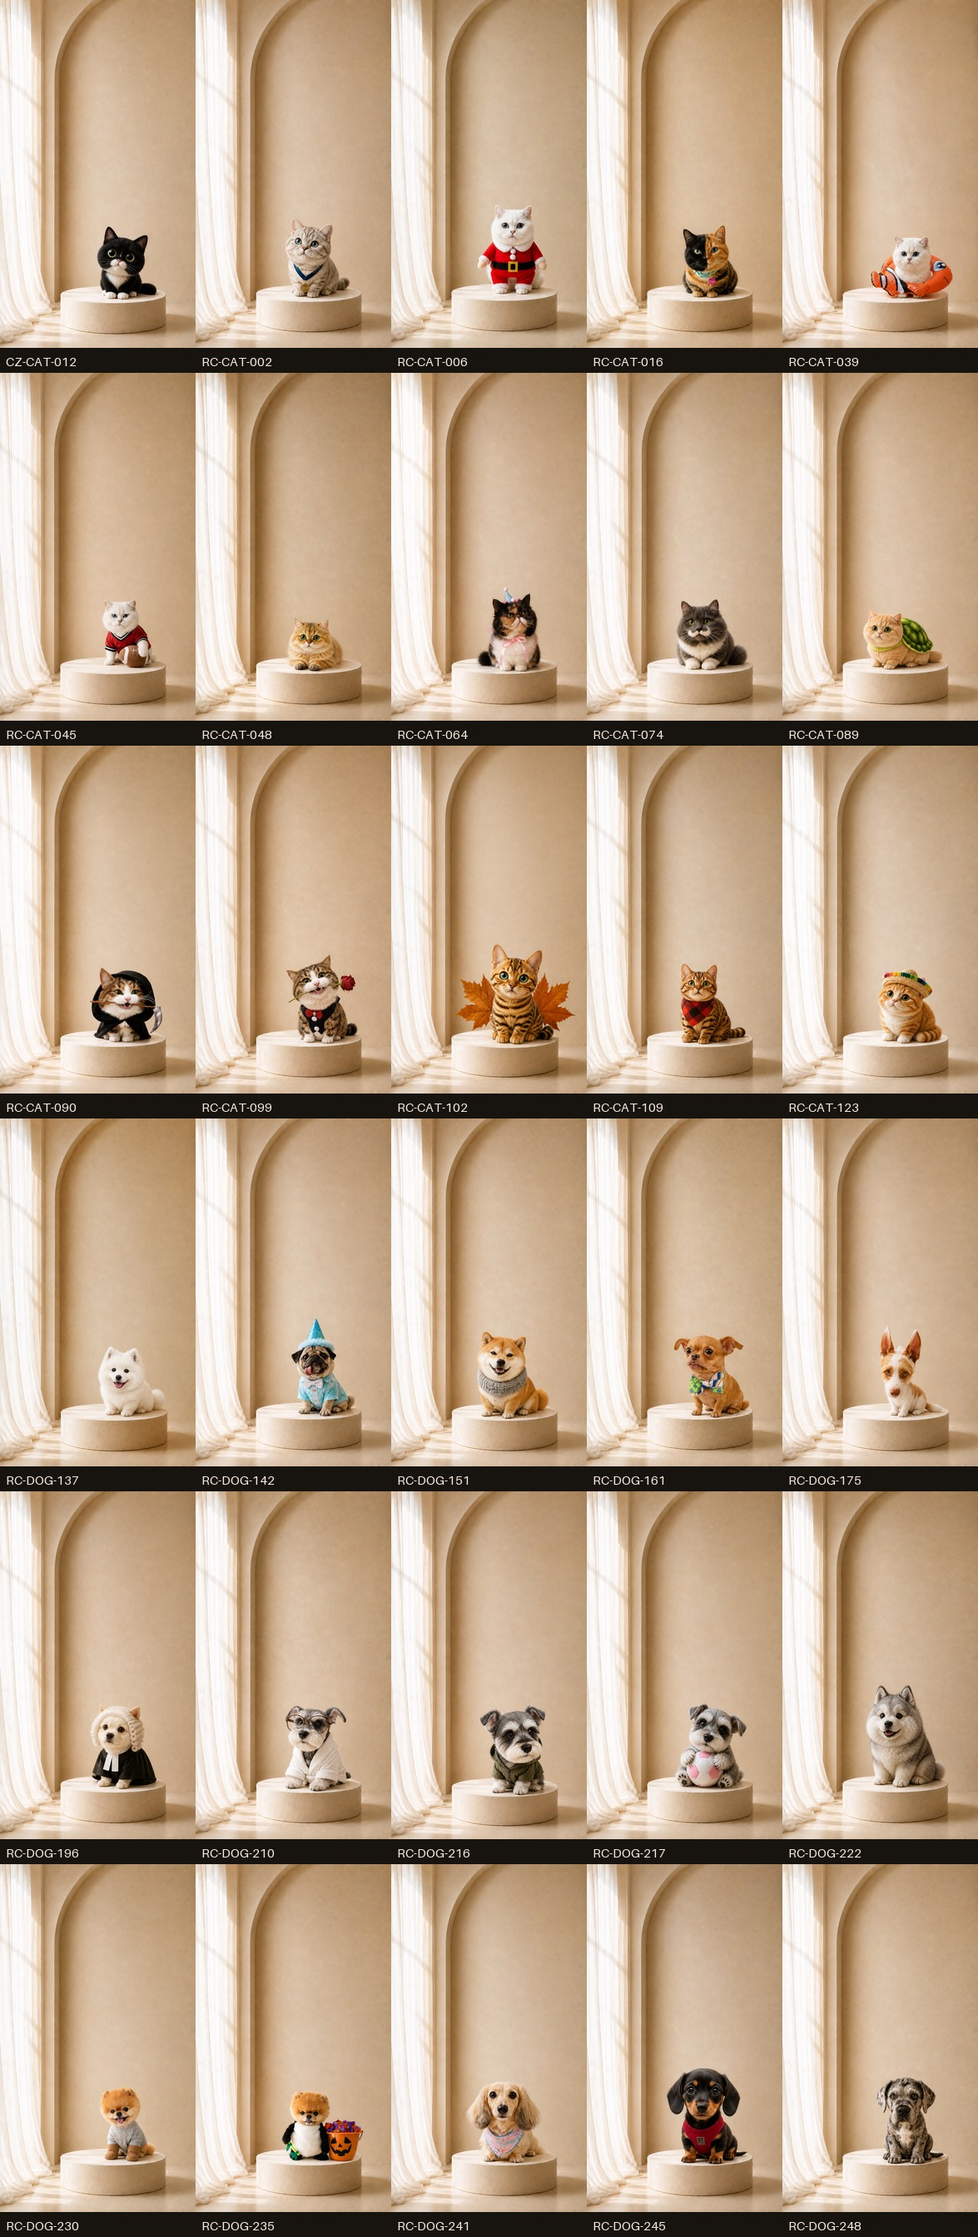
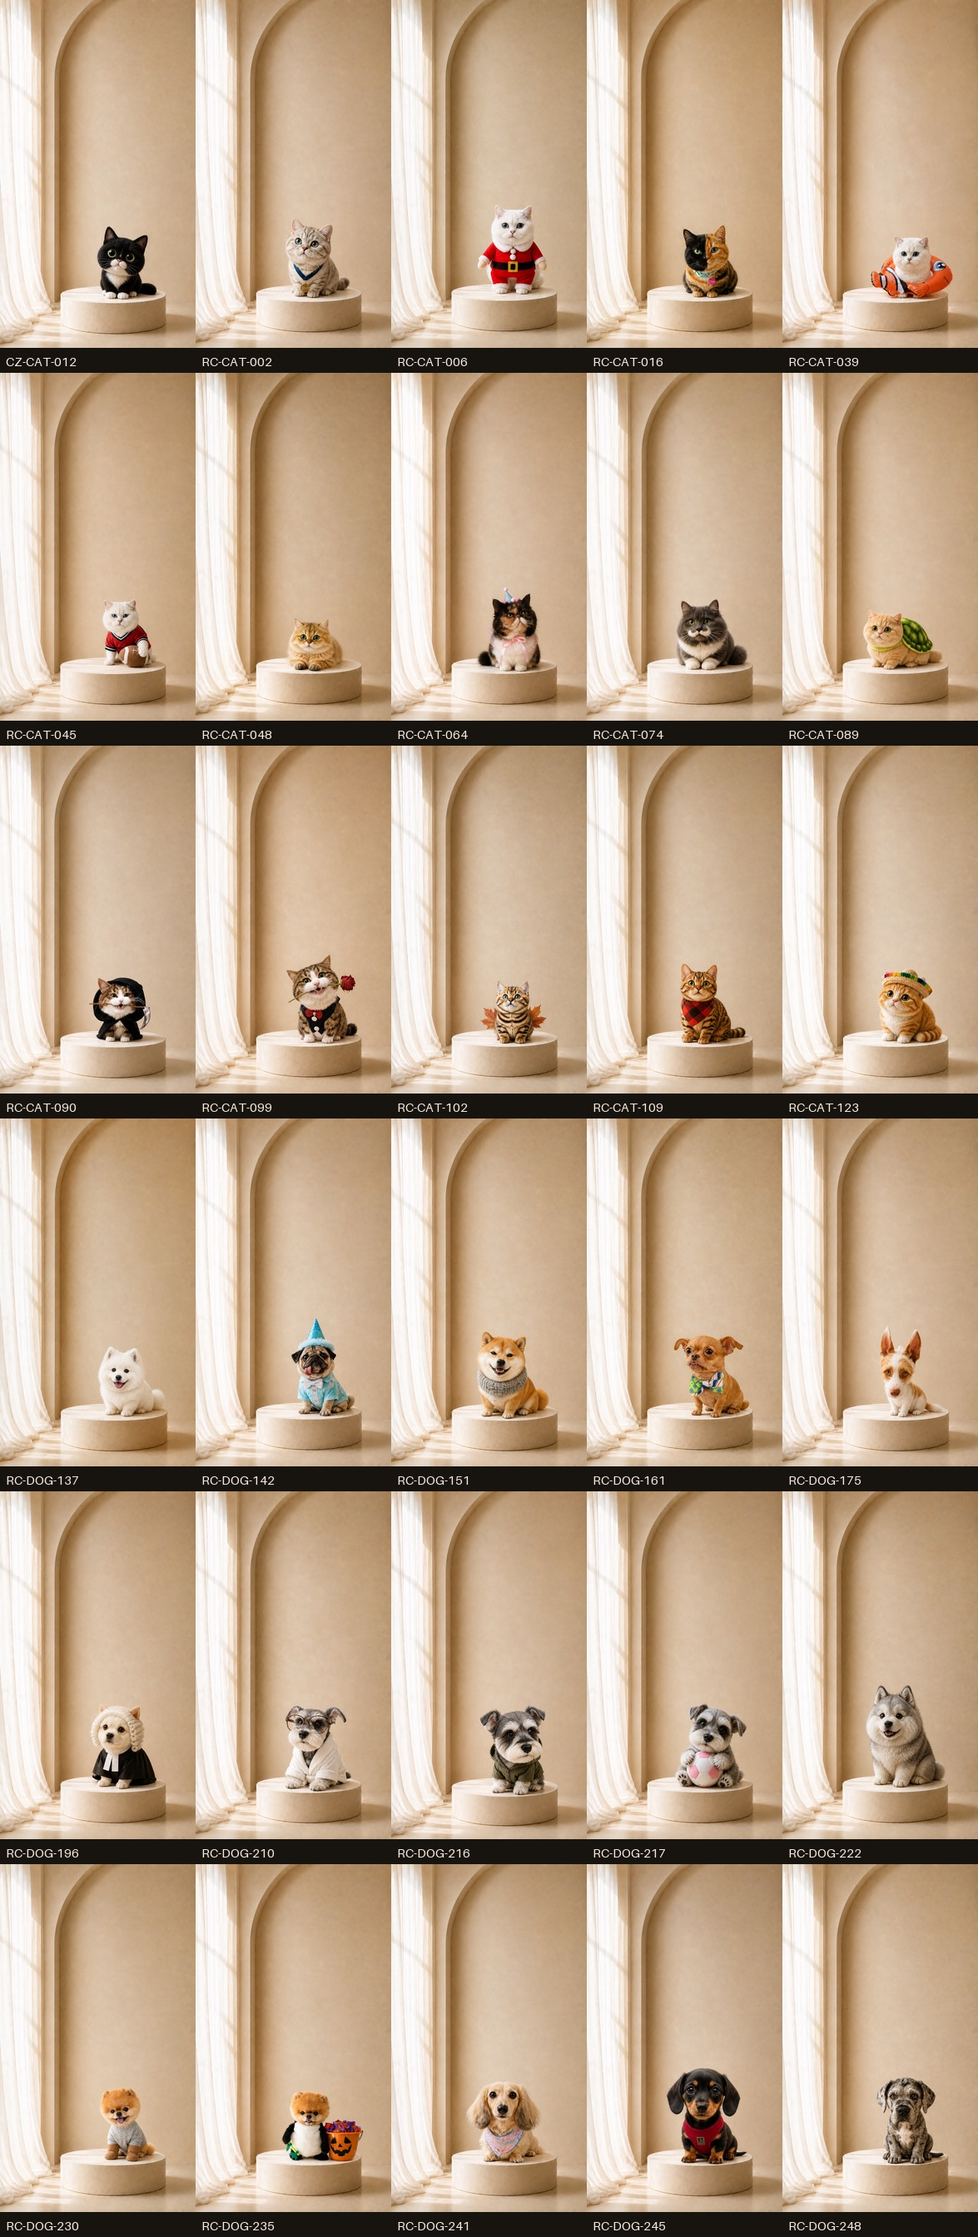
pet-r008: promote disjoint 30-pet gallery

Changed region(s): [[0.4596, 0.4062, 0.5821, 0.4688], [0.0919, 0.4375, 0.1838, 0.4688]]

diff --git a/pet-identity-30/index.html b/pet-identity-30/index.html
@@ -4,7 +4,7 @@
   <meta charset="utf-8">
   <meta name="viewport" content="width=device-width, initial-scale=1">
   <meta name="theme-color" content="#17130f">
-  <title>PET-R007 · 커튼 동선 비중첩 고양이 15 + 강아지 15</title>
+  <title>PET-R008 · 이전 세트와 ID가 겹치지 않는 고양이 15 + 강아지 15</title>
   <style>
     :root {
       color-scheme: dark;
@@ -183,9 +183,9 @@
 </head>
 <body>
   <header class="wrap">
-    <p class="eyebrow">PET-R007 · 2026-08-25</p>
-    <h1>커튼 동선과 겹치지 않는<br>고양이 15 + 강아지 15</h1>
-    <p class="lede">사용자 입력 동물과 필수 액세서리를 오른쪽 안전 박스 안의 치비 캐릭터로 변환하고, 별도 누끼나 크로마키 없이 <code>base_9x16</code> 장면 안에서 한 번에 생성한 30개 결과입니다.</p>
+    <p class="eyebrow">PET-R008 · 2026-08-25</p>
+    <h1>이전 세트와 입력 ID가 겹치지 않는<br>고양이 15 + 강아지 15</h1>
+    <p class="lede">PET-R007의 입력 ID와 파일 해시를 제외 목록으로 고정한 뒤, 서로 다른 원본 사진 30개를 치비 캐릭터로 변환했습니다. 별도 누끼나 크로마키 없이 <code>base_9x16</code> 장면 안에서 한 번에 생성한 결과입니다.</p>
     <div class="notice">자동 PASS 없음 · 전 항목 owner review required</div>
 
     <div class="stats" aria-label="실험 요약">
@@ -193,7 +193,7 @@
       <div class="stat"><strong>15</strong><span>고양이</span></div>
       <div class="stat"><strong>15</strong><span>강아지</span></div>
       <div class="stat"><strong>941×1672</strong><span>네이티브 출력</span></div>
-      <div class="stat"><strong>0</strong><span>크로마·사후 합성</span></div>
+      <div class="stat"><strong>0</strong><span>이전 입력 ID 교집합</span></div>
     </div>
 
     <details class="method">
@@ -206,7 +206,7 @@
             <li>Images 3–4: 치비 스타일·최대 크기만 안내</li>
             <li>Image 5: 빨강 금지 구역·초록 배치 박스 좌표 지도</li>
           </ol>
-          <p>동물·모자·옷·장난감·꼬리·그림자까지 오른쪽 배치 박스에 넣어 커튼 최대 동선과 분리했습니다. 결과 이미지는 941×1672 네이티브 비율 그대로이며 가로·세로 독립 리사이즈를 하지 않았습니다.</p>
+          <p>동물·모자·옷·장난감·꼬리·그림자까지 오른쪽 배치 박스에 넣고 전체 장면 depth로 커튼 앞뒤를 처리했습니다. 결과 이미지는 941×1672 네이티브 비율 그대로입니다. 원본 풀은 같은 인플루언서의 여러 게시물을 포함하므로, ID와 원본 사진은 이전 세트와 완전히 다르지만 같은 실제 반려동물의 다른 사진이 포함될 수 있습니다.</p>
         </div>
         <div class="refs">
           <figure class="ref"><img src="assets/reference/base.jpg" alt="빈 base 9x16 장면"><figcaption>Image 1 · edit target</figcaption></figure>
@@ -216,7 +216,7 @@
       </div>
     </details>
 
-    <a class="sheet-link" href="assets/contact-sheet.jpg?v=pet-r007-curtain-clear-pets-1" target="_blank" rel="noopener">30개 전체 결과 콘택트시트 ↗</a>
+    <a class="sheet-link" href="assets/contact-sheet.jpg?v=pet-r008-disjoint-pets-1" target="_blank" rel="noopener">30개 전체 결과 콘택트시트 ↗</a>
     <a class="sheet-link" href="preview/surface-contact-sheet.jpg" target="_blank" rel="noopener">30개 Depth · Normal QA 시트 ↗</a>
   </header>
 
@@ -233,7 +233,7 @@
   </main>
 
   <footer>
-    <div class="wrap">PET-R007 · Built-in ImageGen direct-base edit · 공개 결과는 품질 판정이 아니라 오너 검수용 후보입니다.</div>
+    <div class="wrap">PET-R008 · Built-in ImageGen direct-base edit · PET-R007 ID 교집합 0 · 공개 결과는 오너 검수용 후보입니다.</div>
   </footer>
 
   <dialog id="lightbox">
@@ -283,37 +283,37 @@
 
   <script>
     const pets = [
-      {id:'CZ-CAT-006', species:'cat', trait:'검정·흰색 턱시도, 넓은 황록색 눈, 흰 턱·가슴·발', required:'추가 액세서리 없음'},
-      {id:'RC-CAT-001', species:'cat', trait:'둥근 은갈색 태비 얼굴, 연녹색 눈, 이마 M 무늬', required:'회색 니트 상어 후드·이빨·지느러미'},
-      {id:'RC-CAT-003', species:'cat', trait:'은색 셰이디드, 둥근 얼굴, 연녹색 눈, 보라색 목줄', required:'얕은 베이지색 직조 바구니'},
-      {id:'RC-CAT-005', species:'cat', trait:'순백색 털, 파란 회색 눈, 작은 분홍 코', required:'청록 목줄과 라벤더 꽃 모양 태그'},
-      {id:'RC-CAT-018', species:'cat', trait:'좌측 검정·우측 주황 얼굴, 녹색·파란색 오드아이', required:'분홍 목줄과 하트 태그'},
-      {id:'RC-CAT-028', species:'cat', trait:'접힌 귀, 회색·주황·크림색 얼굴 패치, 녹색 눈', required:'몸과 머리를 감싼 회색 저지 원단'},
-      {id:'RC-CAT-036', species:'cat', trait:'순백색 털, 사파이어색 눈, 둥근 얼굴', required:'검정·흰색 깅엄 체크 셔츠'},
-      {id:'RC-CAT-049', species:'cat', trait:'긴 황금색 털, 청록색 눈, 크림색 가슴 갈기', required:'추가 액세서리 없음'},
-      {id:'RC-CAT-065', species:'cat', trait:'납작하고 작은 칼리코 얼굴, 검정·주황·흰색 패치', required:'추가 액세서리 없음'},
-      {id:'RC-CAT-066', species:'cat', trait:'회색·흰색 털과 코 아래의 고유한 흰 콧수염 무늬', required:'추가 액세서리 없음'},
-      {id:'RC-CAT-081', species:'cat', trait:'무거운 크림·주황 태비 체형과 가늘게 뜬 눈', required:'추가 액세서리 없음'},
-      {id:'RC-CAT-092', species:'cat', trait:'갈색·흰색 태비, 초록 눈, 송곳니가 보이는 웃음', required:'추가 액세서리 없음'},
-      {id:'RC-CAT-105', species:'cat', trait:'갈색 벵갈 로제트, 큰 귀, 청록색 눈', required:'빨강·검정 버팔로 체크 하네스'},
-      {id:'RC-CAT-117', species:'cat', trait:'주황·흰색 태비, 가는 초록 눈, 흰 앞발', required:'교차한 긴 앞발 포즈'},
-      {id:'RC-CAT-126', species:'cat', trait:'주황색 털, 큰 녹금색 눈, 넓은 주둥이와 젖은 털', required:'얼굴과 이마의 물방울 유지'},
+      {id:'CZ-CAT-012', species:'cat', trait:'검정·흰색 턱시도, 넓은 황록색 눈, 흰 턱·가슴·발', required:'추가 액세서리 없음'},
+      {id:'RC-CAT-002', species:'cat', trait:'둥근 은베이지 태비, 연녹색 눈, 이마 M 무늬', required:'파란 수상 리본과 둥근 금메달'},
+      {id:'RC-CAT-006', species:'cat', trait:'순백색 둥근 얼굴, 짙은 청회색 눈과 분홍 코', required:'흰 트림·검정 벨트가 있는 빨간 산타 인형옷'},
+      {id:'RC-CAT-016', species:'cat', trait:'좌측 검정·우측 주황 반반 얼굴과 녹색·파란색 오드아이', required:'청록 목줄과 분홍 하트 태그'},
+      {id:'RC-CAT-039', species:'cat', trait:'흰색 실버 셰이디드, 연한 파란 눈과 둥근 얼굴', required:'몸을 감싼 주황색 흰동가리 인형 링'},
+      {id:'RC-CAT-045', species:'cat', trait:'순백색 둥근 얼굴, 연한 파란 눈과 새침한 표정', required:'빨간 미식축구 저지와 작은 갈색 공'},
+      {id:'RC-CAT-048', species:'cat', trait:'긴 황금빛 털, 커다란 에메랄드 눈과 짙은 앞발', required:'추가 액세서리 없음'},
+      {id:'RC-CAT-064', species:'cat', trait:'납작한 검정·주황·흰색 칼리코 얼굴과 황록색 눈', required:'하늘색 파티 모자와 분홍 리본'},
+      {id:'RC-CAT-074', species:'cat', trait:'회색·흰색 장모, 초록 눈과 흰 콧수염 무늬', required:'추가 액세서리 없음'},
+      {id:'RC-CAT-089', species:'cat', trait:'크림·주황 태비, 초록 눈과 넓은 볼', required:'등에 밀착된 초록 거북이 등딱지 의상'},
+      {id:'RC-CAT-090', species:'cat', trait:'갈색·흰색 태비, 초록 눈과 송곳니가 보이는 웃음', required:'검정 후드 의상과 짧은 미니 낫'},
+      {id:'RC-CAT-099', species:'cat', trait:'갈색·흰색 태비, 초록 눈과 즐거운 송곳니 표정', required:'검정 턱시도·빨간 나비넥타이·입에 문 장미'},
+      {id:'RC-CAT-102', species:'cat', trait:'따뜻한 갈색 벵갈 로제트, 큰 귀와 청록색 눈', required:'어깨 뒤에 붙은 단풍잎 날개 두 장'},
+      {id:'RC-CAT-109', species:'cat', trait:'따뜻한 갈색 벵갈 로제트, 큰 귀와 선명한 초록 눈', required:'빨강·검정 다이아몬드 무늬 목 스카프'},
+      {id:'RC-CAT-123', species:'cat', trait:'주황·흰색 태비, 초록 눈과 흰 턱·가슴', required:'여러 색 띠가 있는 작은 밀짚 솜브레로'},
 
-      {id:'RC-DOG-136', species:'dog', trait:'검정·황갈색 장모 스피츠 믹스, 회색 가슴 갈기, 작은 혀', required:'머리 위의 큰 하늘색 선물 리본'},
-      {id:'RC-DOG-144', species:'dog', trait:'황갈색 퍼그, 검은 주둥이, 둥근 눈, 말린 꼬리', required:'오른쪽으로 길게 나온 분홍색 혀'},
-      {id:'RC-DOG-154', species:'dog', trait:'적갈색 시바견, 크림색 볼·가슴, 웃는 표정과 말린 꼬리', required:'검정 목줄과 짧은 리드줄'},
-      {id:'RC-DOG-163', species:'dog', trait:'작은 황갈색·흰색 치와와 믹스, 매우 큰 옆 귀, 분홍 코', required:'파랑·빨강·흰색 니트 스웨터와 체크 패널'},
-      {id:'RC-DOG-176', species:'dog', trait:'흰색·황갈색 와이어 코트, 긴 주둥이, 매우 큰 귀와 감은 눈', required:'금색 패턴의 검정 목줄'},
-      {id:'RC-DOG-193', species:'dog', trait:'노령 크림색 시추 믹스, 큰 눈, 나온 혀', required:'기울어진 검정 톱햇과 검정 랩/케이프'},
-      {id:'RC-DOG-194', species:'dog', trait:'크림색 스피츠 믹스, 곧은 귀, 차분한 표정', required:'버건디 터틀넥과 빨강·베이지·파랑 체크 코트'},
-      {id:'RC-DOG-206', species:'dog', trait:'솔트앤페퍼 슈나우저, 회색 눈썹과 흰 수염', required:'흰 목욕가운과 머리 수건'},
-      {id:'RC-DOG-208', species:'dog', trait:'검정·은색 슈나우저 강아지, 밝은 눈썹·수염·다리', required:'추가 액세서리 없음'},
-      {id:'RC-DOG-219', species:'dog', trait:'초콜릿 래브라도, 헤이즐 눈과 부드러운 곁눈질', required:'빨간 목줄과 입에 문 연보라색 꽃줄기'},
-      {id:'RC-DOG-220', species:'dog', trait:'회색·흰색 울프독, 넓은 얼굴과 묵직한 체형', required:'추가 액세서리 없음'},
-      {id:'RC-DOG-224', species:'dog', trait:'테디베어 컷의 작은 주황 포메라니안', required:'파란 소매·노란 구름 쿠션·회색 별 인형'},
-      {id:'RC-DOG-232', species:'dog', trait:'둥근 주황 포메라니안, 웃는 입과 분홍 혀', required:'산타모자와 빨강·흰색 줄무늬 선물상자'},
-      {id:'RC-DOG-240', species:'dog', trait:'검정·황갈색 닥스훈트, 긴 주둥이·몸통과 처진 귀', required:'빨간 가죽 하네스와 입에 문 나뭇가지'},
-      {id:'RC-DOG-257', species:'dog', trait:'짙은 브린들 그레이트데인, 긴 직사각형 주둥이와 흰 가슴선', required:'추가 액세서리 없음'}
+      {id:'RC-DOG-137', species:'dog', trait:'복슬복슬한 순백색 사모예드형 스피츠, 검은 눈·코와 분홍 혀', required:'추가 액세서리 없음'},
+      {id:'RC-DOG-142', species:'dog', trait:'황갈색 퍼그, 검은 주둥이, 둥근 갈색 눈과 나온 혀', required:'파란 파티 모자·청록 체크 셔츠·흰 나비넥타이'},
+      {id:'RC-DOG-151', species:'dog', trait:'적갈색 시바견, 크림색 볼과 가늘게 웃는 눈', required:'두꺼운 회색 니트 목도리'},
+      {id:'RC-DOG-161', species:'dog', trait:'작은 적갈색 치와와 믹스, 긴 주둥이와 큰 옆 귀', required:'여러 색 기하학 무늬 나비넥타이'},
+      {id:'RC-DOG-175', species:'dog', trait:'흰색·주황색 와이어헤어 포덴코형, 매우 큰 귀와 호박색 눈', required:'추가 액세서리 없음'},
+      {id:'RC-DOG-196', species:'dog', trait:'크림·흰색 테리어 믹스, 곧은 귀와 검은 눈·코', required:'흰 법관 가발·검정 법복·흰 넥 밴드'},
+      {id:'RC-DOG-210', species:'dog', trait:'솔트앤페퍼 슈나우저, 회색 눈썹과 흰 수염', required:'둥근 호피 안경과 흰 목욕가운'},
+      {id:'RC-DOG-216', species:'dog', trait:'솔트앤페퍼 슈나우저, 회색 눈썹과 흰 수염', required:'짙은 올리브색 후드 우비'},
+      {id:'RC-DOG-217', species:'dog', trait:'작은 솔트앤페퍼 슈나우저, 짙은 눈과 흰 수염', required:'가슴에 꼭 안은 흰색·분홍색 축구공'},
+      {id:'RC-DOG-222', species:'dog', trait:'회색·흰색 울프독, 넓은 얼굴과 두꺼운 가슴털', required:'추가 액세서리 없음'},
+      {id:'RC-DOG-230', species:'dog', trait:'테디베어 컷의 작은 주황 포메라니안', required:'연회색 스웨터와 황갈색 부츠'},
+      {id:'RC-DOG-235', species:'dog', trait:'테디베어 컷의 작은 주황 포메라니안', required:'판다 의상과 주황 잭오랜턴 바구니'},
+      {id:'RC-DOG-241', species:'dog', trait:'크림색 장모 닥스훈트, 긴 귀·주둥이와 둥근 눈', required:'파랑·분홍 패턴 반다나'},
+      {id:'RC-DOG-245', species:'dog', trait:'검정·황갈색 닥스훈트, 긴 주둥이·몸통과 처진 귀', required:'몸에 밀착된 빨간 산책 하네스'},
+      {id:'RC-DOG-248', species:'dog', trait:'회색·검정 멀 그레이트데인, 긴 주둥이와 호박색 눈', required:'추가 액세서리 없음'}
     ];
 
     const gallery = document.querySelector('#gallery');
@@ -347,7 +347,7 @@
               <figcaption>INPUT</figcaption>
             </figure>
             <figure class="shot output">
-              <img loading="lazy" src="assets/output/${p.id}.jpg?v=pet-r007-curtain-clear-pets-1" alt="${p.id} 치비 생성 결과" data-title="${p.id} · 결과" data-pet-id="${p.id}">
+              <img loading="lazy" src="assets/output/${p.id}.jpg?v=pet-r008-disjoint-pets-1" alt="${p.id} 치비 생성 결과" data-title="${p.id} · 결과" data-pet-id="${p.id}">
               <figcaption>RESULT · 모바일 프리뷰</figcaption>
             </figure>
           </div>
@@ -407,7 +407,7 @@
       previewPetTitle.textContent = `${petId} · 앱 프리뷰`;
       document.querySelector('#previewModalTitle').textContent = `${petId} · 시간대별 모바일 프리뷰`;
       previewStatus.textContent = '96단계 라이트와 커튼을 불러오는 중';
-      previewFrame.src = `preview/viewer.html?scene=${sceneFor(petId)}&wallpaper&tod=12:00&wakegust&build=pet-r007-curtain-clear-pets-1`;
+      previewFrame.src = `preview/viewer.html?scene=${sceneFor(petId)}&wallpaper&tod=12:00&wakegust&build=pet-r008-disjoint-pets-1`;
       previewDialog.showModal();
     }
     function closePreview() {

diff --git a/pet-identity-30/generation-r008/promote.py b/pet-identity-30/generation-r008/promote.py
@@ -1,0 +1,71 @@
+#!/usr/bin/env python3
+# /// script
+# requires-python = ">=3.11"
+# dependencies = ["pillow==11.3.0"]
+# ///
+"""Promote the reviewed PET-R008 source and output set into the public gallery."""
+
+from __future__ import annotations
+
+import json
+import shutil
+from pathlib import Path
+
+from PIL import Image
+
+
+ROOT = Path(__file__).resolve().parent
+PAGE = ROOT.parent
+MANIFEST = ROOT / "manifest.json"
+INPUT = ROOT / "input"
+NATIVE = ROOT / "output-native"
+PUBLIC_INPUT = PAGE / "assets" / "input"
+PUBLIC_NATIVE = PAGE / "assets" / "output-native"
+PUBLIC_JPEG = PAGE / "assets" / "output"
+
+
+def clear_stale(directory: Path, suffix: str, expected: set[str]) -> None:
+    directory.mkdir(parents=True, exist_ok=True)
+    for path in directory.glob(f"*{suffix}"):
+        if path.name not in expected:
+            path.unlink()
+
+
+def main() -> None:
+    manifest = json.loads(MANIFEST.read_text(encoding="utf-8"))
+    assert manifest["status"] in {"ready-for-promotion", "promoted-to-production"}
+    items = manifest["items"]
+    assert len(items) == 30
+
+    input_names = {f"{item['id']}.jpg" for item in items}
+    native_names = {f"{item['id']}.png" for item in items}
+    jpeg_names = {f"{item['id']}.jpg" for item in items}
+    clear_stale(PUBLIC_INPUT, ".jpg", input_names)
+    clear_stale(PUBLIC_NATIVE, ".png", native_names)
+    clear_stale(PUBLIC_JPEG, ".jpg", jpeg_names)
+
+    for item in items:
+        pet_id = item["id"]
+        source = INPUT / item["source"]
+        native = NATIVE / f"{pet_id}.png"
+        assert source.is_file(), source
+        assert native.is_file(), native
+
+        shutil.copy2(source, PUBLIC_INPUT / f"{pet_id}.jpg")
+        shutil.copy2(native, PUBLIC_NATIVE / f"{pet_id}.png")
+        with Image.open(native) as image:
+            assert image.size == (941, 1672), (native, image.size)
+            preview = image.convert("RGB").resize((844, 1500), Image.Resampling.LANCZOS)
+            preview.save(
+                PUBLIC_JPEG / f"{pet_id}.jpg",
+                quality=92,
+                optimize=True,
+                progressive=True,
+            )
+
+    shutil.copy2(ROOT / "contact-sheet.jpg", PAGE / "assets" / "contact-sheet.jpg")
+    print("Promoted PET-R008: 30 inputs, 30 native PNGs, 30 gallery JPEGs")
+
+
+if __name__ == "__main__":
+    main()

diff --git a/pet-identity-30/generation-r008/prepare_inputs.py b/pet-identity-30/generation-r008/prepare_inputs.py
@@ -17,7 +17,6 @@ from pathlib import Path
 ROOT = Path(__file__).resolve().parent
 MANIFEST = ROOT / "manifest.json"
 PREVIOUS = ROOT.parent / "generation-r007" / "manifest.json"
-PREVIOUS_INPUT = ROOT.parent / "assets" / "input"
 OUTPUT = ROOT / "input"
 
 
@@ -56,7 +55,12 @@ def main() -> None:
 
     hashes = [sha256(path) for _, path in matches]
     assert len(set(hashes)) == 30, "duplicate source contents detected by SHA-256"
-    previous_hashes = {sha256(path) for path in PREVIOUS_INPUT.glob("*.jpg")}
+    previous_sources = []
+    for item in previous:
+        found = list(args.pool.rglob(f"{item['id']}__*.jpg"))
+        assert len(found) == 1, f"expected one PET-R007 source for {item['id']}, got {found}"
+        previous_sources.append(found[0])
+    previous_hashes = {sha256(path) for path in previous_sources}
     hash_overlap = sorted(set(hashes) & previous_hashes)
     assert not hash_overlap, f"PET-R007 source hash overlap: {hash_overlap}"
 

diff --git a/pet-identity-30/generation-r008/README.md b/pet-identity-30/generation-r008/README.md
@@ -20,7 +20,7 @@ The command refuses to continue unless all of these hold:
 - exactly 15 cats and 15 dogs;
 - 30 distinct IDs and source filenames;
 - zero ID overlap with `generation-r007/manifest.json`;
-- zero exact source-file hash overlap with the current PET-R007 production inputs;
+- zero exact source-file hash overlap with PET-R007 sources in the supplied pool;
 - 30 distinct SHA-256 source hashes.
 
 ## Built-in ImageGen prompt template
@@ -71,7 +71,18 @@ one targeted correction and archive that regeneration in the manifest.
 
 - 30 native outputs are present at `941x1672`, with 30 distinct SHA-256 hashes.
 - `RC-CAT-039` accepted a targeted smaller/rightward regeneration for its wide
-  clownfish ring.
+  clownfish ring. `RC-CAT-090` and `RC-CAT-102` accepted fresh base-scene
+  regenerations with compact scythe and maple-leaf props.
 - Move edits for `RC-CAT-090` and `RC-CAT-102` were rejected because the model
-  enlarged the subject; their smaller first-generation outputs were restored.
+  enlarged the subjects; those intermediate variants were discarded.
 - The contact sheet is an owner-review set, not an automatic aesthetic PASS.
+
+## Promote reviewed candidates
+
+```bash
+uv run pet-identity-30/generation-r008/promote.py
+```
+
+This replaces only the public gallery's pet input/output files, writes the
+844x1500 JPEG previews, and copies the reviewed contact sheet. Previous assets
+remain recoverable through Git history.
